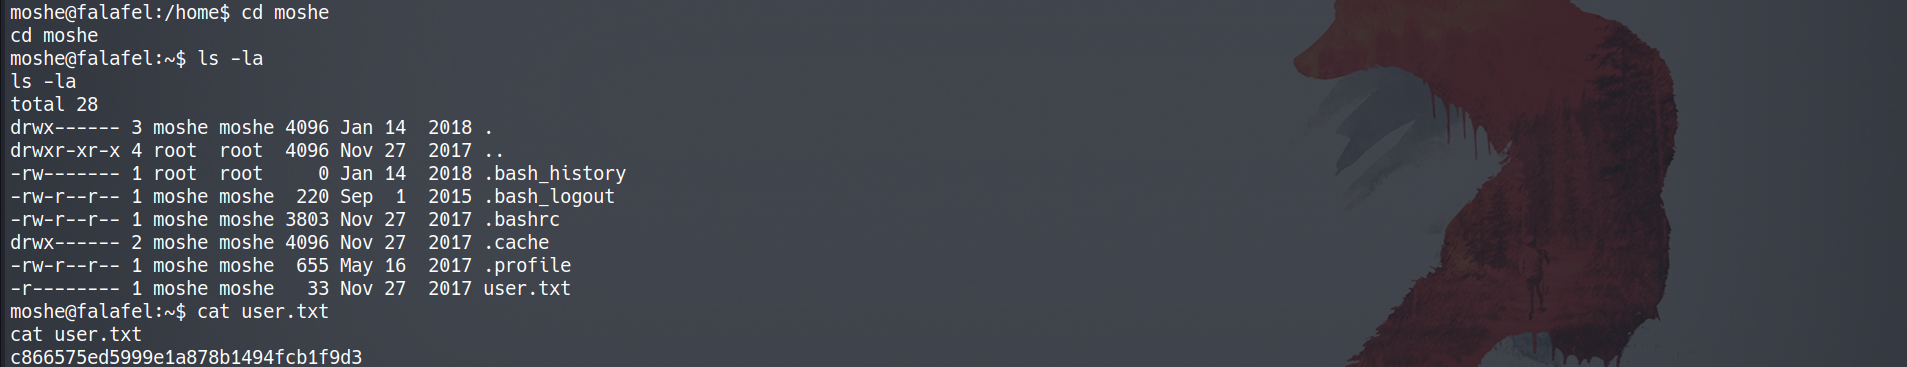
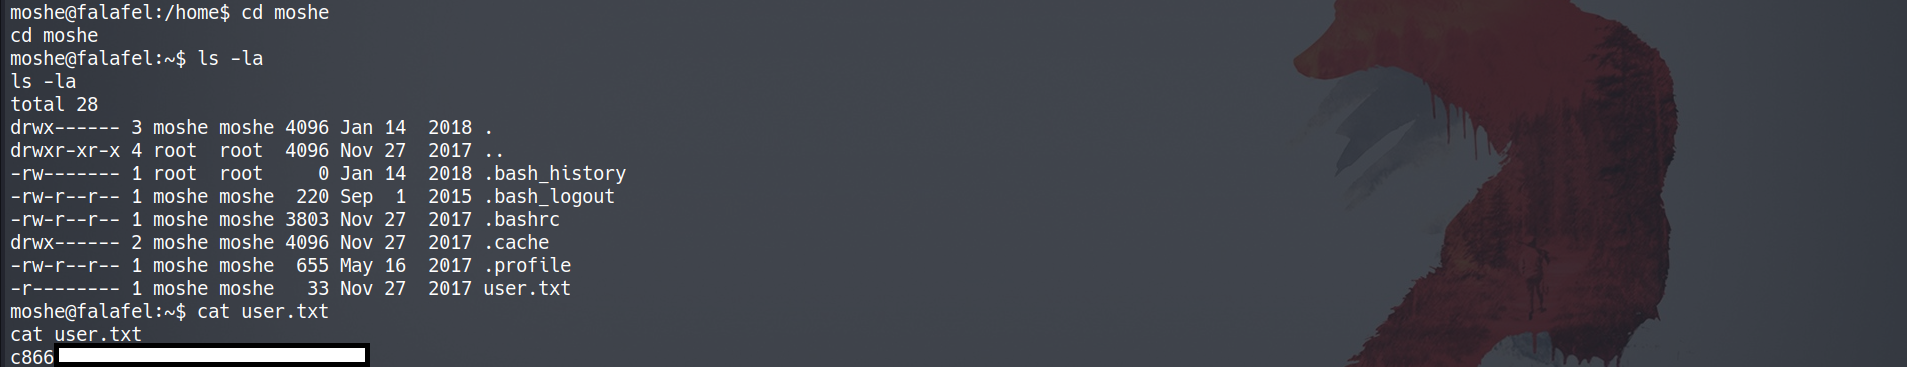
Feat: HTB-Falafel Writeup
Wrote a writeup for HTB-Falafel

Changed region(s): [[0.0309, 0.9292, 0.2166, 1.0]]

diff --git a/HTB/HTB-Falafel.md b/HTB/HTB-Falafel.md
@@ -1,0 +1,273 @@
+Name: Ben Roudebush
+Lab: HTB - Falafel
+IP Address: 10.129.1.83
+Date: 25 September 2022
+
+## High-Level Summary
+
+Falafel is a Linux based machine with a fairly straight-forward solve path.  It starts with finding a login page. The credentials for a low-level user: `chris` can be discovered with SQL injection. PHP type juggling is hinted at by several things on the box and can be used to get a login as `admin`. With administrator access, a file upload can be used, in combination with unsafe filename truncation to upload and execute a PHP reverse shell. There are two users on the box: `moshe` and `yossi`.  Moshe's credentials are found in a configuration file and the user flag can be obtained. Yossi's password can be found in raw image data in a directory `moshe` has access to. `yossi` is a member of the `disk` group, which allows arbitrary file-read. This is used to steal the `root` SSH key and own the box.
+
+## Service Enumeration
+
+### Nmap
+
+![nmap](../HTB-pics/falafel/01-nmap.png)
+
+Nmap shows `SSH` and `HTTP` up on the typical port 22 and 80. This, along with the Apache header, indicates that the box is a Linux web server. It's always a good idea to take a look at the website, because they typically have a large attack surface.
+
+### Web Enumeration
+
+![port-80](../HTB-pics/falafel/02-port-80.png)
+
+The website seems to be a social network for "falafel lovers". There's a fake email and a login button.
+
+![login](../HTB-pics/falafel/03-login.png)
+
+The typical `admin:admin` and other default credentials don't work. Interestingly enough, the page does give me different messages when valid and invalid usernames are given. With a valid username:
+
+![valid-user](../HTB-pics/falafel/07-wrong-id.png)
+
+With an invalid username:
+
+![try-again](../HTB-pics/falafel/06-try-again.png)
+
+I'll have to come back to this later when I have more information.
+
+#### Directory Enumeration
+
+![dir-fuzz](../HTB-pics/falafel/04-dir-fuzz.png)
+
+Gobuster returns several pages. Of most interest here though is the non-standard `cyberlaw.txt` file.
+
+![cyberlaw](../HTB-pics/falafel/05-cyberlaw.png)
+
+
+## Initial Foothold
+
+### SQL Injection
+
+This file tells us the path to RCE and gives us the username of a low-level user named `chris`. Because of the verbose error messages, I have an inkling that this is some sort of custom login function. The different messages are likely a result of a SQL query that checks if there is a user with the supplied username:
+
+```SQL
+/* If returns 1: check password; IF returns 0: 'Try again.'*/
+SELECT COUNT() FROM users WHERE username = [SUPPLIED_USERNAME]
+```
+
+I want to find out if this implementation is injectable, so I'll use SQLmap. I need a valid login request, so I'll intercept in Burp and copy to a file.
+
+![Burp](../HTB-pics/falafel/10-request.png)
+
+Then, I'll use SQLmap and look for the 'Wrong Identification' string from a correct username.
+
+![SQLmap](../HTB-pics/falafel/11-sqlmap-find.png)
+
+After a bit of a wait, SQLmap finds an injection on the username parameter.
+
+![injection-found](../HTB-pics/falafel/12-sqlmap-found.png)
+
+Next, I just want to dump the database to find anything useful. I could do this faster by selectively dumping what I need, but the easier method if you have a bit of time, is to just use `--dump` and dump the entire database. I was looking for a break for lunch, so I set the flag and left SQLmap running for a while.
+
+![dump](../HTB-pics/falafel/13-sqlmap-dump.png)
+
+It takes a bit, but SQLmap found 2 users' credentials and cracked one of the hashes to `juggling`.
+
+![dump2](../HTB-pics/falafel/14-dumped.png)
+
+I can log in with `chris:juggling`.
+
+![dump2](../HTB-pics/falafel/15-login-as-chris.png)
+
+The numerous references to 'juggling' and the note saying that `chris` could "log in as [the admin] without knowing [his] password" makes me think of a weird PHP (and some other languages) thing called "type juggling".
+
+### Type Juggling -> admin login
+
+#### Type Juggling Introduction
+
+If you do any amount of coding, you may be familiar with the different types of 'equal signs':
+
+| Symbol | Name                   | Meaning                                                                         |
+| ------ | ---------------------- | ------------------------------------------------------------------------------- |
+| `=`    | Assignment Operator    | "Assign the value on the right to the variable on the left."                    |
+| `==`   | Equals Operator        | "Does the value on the left equal the value on the right?" (Type Juggling)      |
+| `===`  | Strict Equals Operator | "Does the value *and* type on the left equal the value *and* type on the right" |
+
+Essentially, in PHP (and some other languages) the `==` operator doesn't function how you would expect it to. 
+
+```JS
+// Returns TRUE
+if ('3' == 3) {
+	return true;
+} else {
+	return false;
+}
+
+// Returns FALSE
+if ('3' === 3) {
+	return true;
+} else {
+	return false;
+}
+
+// Returns TRUE
+if ('0e1387158932' == 0) {
+	return true;
+}
+```
+
+The third case is of special interest to us here because of so-called [Magic Hashes](https://www.whitehatsec.com/blog/magic-hashes/). Essentially, with the `==`, PHP interprets `0e743...` as `0 * 10 ^ 743...`. This means that if we log in with a "Magic Hash" we are *way* more likely to get a hit than if we were using random guesses. If you'd like a more in-depth explanation of exactly why this works, read the above article.
+
+#### Logging in with a Magic Hash
+
+Using the hash starting with '2406...' from the article, I can log in to the site as admin.
+
+![juggled](../HTB-pics/falafel/17-juggled.png)
+
+There is a file upload via URL, which should come as no surprise given the .TXT file earlier. I tried some basic things to upload malicious things. But the checking seemed pretty buttoned-up. There is a quote on the profile that gives us a hint as to what to try next.
+
+![hint-limits](../HTB-pics/falafel/18-hint-limits.png)
+
+### Filename Truncation -> Shell as www-data
+
+I set up a couple things to test my hunch. First, I'll need a web server to host the files I plan to upload to the target. I'll use the Python web server.
+
+![web-server](../HTB-pics/falafel/19-web-server.png)
+
+Here, you can see what happens normally, the target executes `wget` against my server and since `test.png` doesn't exist, gets a 404 in response.
+
+![fine](../HTB-pics/falafel/20-file-test.png)
+
+But, if I intercept this in Burp and change the filename to something ridiculous like 500 `V`s, then I get a different output.
+
+![truncated](../HTB-pics/falafel/21-truncated.png)
+
+Copying the name under the "New name is..." gives me a length of 236 characters.
+
+![length](../HTB-pics/falafel/22-fle-name-length.png)
+
+Now, I want the server to truncate something that ends in `.php.png` to `.php`. To do this, I'll first need a reverse shell to rename. I'll use the one that is included with Kali.
+
+![rev-shell](../HTB-pics/falafel/23-get-php-rev.png)
+
+Then, I will change the information to reflect my VPN IP and the port number of my listener.
+
+![target](../HTB-pics/falafel/24-change-target.png)
+
+Next, I set up a `nc` listener on port `42069`.
+
+![listener](../HTB-pics/falafel/25-listener.png)
+
+Now, I will make the name the exact length to get shortened to `.php`. Essentially, I want the un-shortened name to be 240 characters, so that when `.`, `p`,`n`, and `g` are the four letters removed. I actually did the simple subtraction wrong and had to take out a `V` later but forgot to redo the screenshots.
+
+![name-change](../HTB-pics/falafel/26-change-name.png)
+
+Then, I uploaded the file to the server and visited the directory that is listed in the command output. The page doesn't load, which is a good sign, since that means there is still a process running.
+
+![long-URL](../HTB-pics/falafel/27-long-url.png)
+
+Back on my listener, I have a shell as `www-data`.
+
+![shell](../HTB-pics/falafel/28-shell.png)
+
+### Shell as Moshe
+
+In the web root directory, there is a `connection.php` file which defines the connection to the database. Inside this file is a password. Usually, if there is a password, it has been reused somewhere else. Anyone who tells you that they do not reuse passwords are either using a password manager, or they are trying to save face.
+
+![web-directory](../HTB-pics/falafel/29-web-dir.png)
+
+![hardcoded](../HTB-pics/falafel/30-hardcoded-creds.png)
+
+There are two users with home directories on the box: `moshe` and `yossi`.
+
+![users](../HTB-pics/falafel/31-users.png)
+
+If I use the Python trick to get a "real shell", I can `su` to each of these users with the password. My first try, `moshe`, works.
+
+![moshe](../HTB-pics/falafel/32-su-moshe.png)
+
+The user flag is in `moshe`'s directory.
+
+![user-flag](../HTB-pics/falafel/33-user-flag.png)
+
+## Privilege Escalation
+
+### Moshe -> Yossi
+
+After I get a shell on a box, the first thing I usually do is run LinPEAS, this is just a way to save time as I *could* run these tests manually, but I have a job and school to do, so instead I use LinPEAS. I move the Python server to my `tools` directory and make a working directory on the target. Then I download the script using `wget`. I can set permissions and run the script.
+
+![LinPEAS](../HTB-pics/falafel/34-linpeas.png)
+
+The first thing I notice when running LinPEAS (other than the PolKit vulnerability because this box is old) is that `moshe` has a lot of groups.
+
+![groups](../HTB-pics/falafel/35-user-info.png)
+
+`yossi` is also currently logged in and using `bash`.
+
+![yossi](../HTB-pics/falafel/36-yossi-bash.png)
+
+I wanted to see what all files I could look at as a result of being in these groups, so I used this loop to record the filenames I had access to.
+
+![copy-stuff](../HTB-pics/falafel/37-copy-stuff.png)
+
+
+#### Reading Framebuffer
+
+In `video`, I have access to `fb0` (framebuffer 0).
+
+![fb0](../HTB-pics/falafel/38-video.png)
+
+I can write the contents of the framebuffer to a file and get the resolution of the framebuffer.
+
+![file-size](../HTB-pics/falafel/39-file-and-size.png)
+
+I used `scp` with `moshe`'s credentials to download the file on my machine.
+
+![file-transfer](../HTB-pics/falafel/40-file-trans.png)
+
+I can open the file in `GIMP` to see what it is. I chose "RAW image data" as the file type.
+
+![gimp](../HTB-pics/falafel/41-open-gimp.png)
+
+If I mess with the image type and resolution, I can make out some commands with `yossi`'s password.
+
+![image-manipulation](../HTB-pics/falafel/42-image-manip.png)
+
+I can now use `ssh` as `yossi`.
+
+![yossi-shell](../HTB-pics/falafel/43-yossi-shell.png)
+
+### Yossi -> Root
+
+I now run LinPEAS again with my new permissions.
+
+![linpeas2](../HTB-pics/falafel/44-linpeas2.png)
+
+`yossi` is a member of the `disk` group. This is [almost as good as](https://steflan-security.com/linux-privilege-escalation-exploiting-user-groups/#disk) `root` because I can read `/dev/sda1` as if I were `root`. 
+
+![partitions](../HTB-pics/falafel/45-disk-group.png)
+
+The following partitions are available to `yossi`:
+
+![partitions](../HTB-pics/falafel/47-basically-root.png)
+
+I can use `debugfs` to read and potentially even write restricted files. Here, I can read `/root/.ssh/id_rsa`.
+
+![id-rsa](../HTB-pics/falafel/48-ez-win.png)
+
+I can copy the key and `ssh` as `root`. I could've just read the root flag as `yossi`, but that's no fun!
+
+![flag](../HTB-pics/falafel/49-root-flag.png)
+
+## Vulnerability Summary
+
+- Sensitive files available to unauthenticated users
+	- The `cyberlaw.txt` file contains sensitive data about a security breach and gave me a valid username: `chris`.
+- Injectable SQL queries
+	- The login form performs a SQL query which I was able to inject into. This allowed me to access Chris's credentials.
+- Unsafe PHP comparison
+	- Use of the `==` operator instead of the `===` operator allowed me to access the administrator account without a valid password.
+- Unsafe filename truncation
+	- Because the truncation program doe snot re-append `.PNG`, I was able to upload PHP code and achieve RCE.
+- Password reuse
+	- `moshe`'s  password for SQL was reused as their system password.
+- Password storage
+	- `yossi`'s password was stored in the framebuffer. After realizing that they entered the set password command incorrectly, `yossi` should have chosen a different password.
